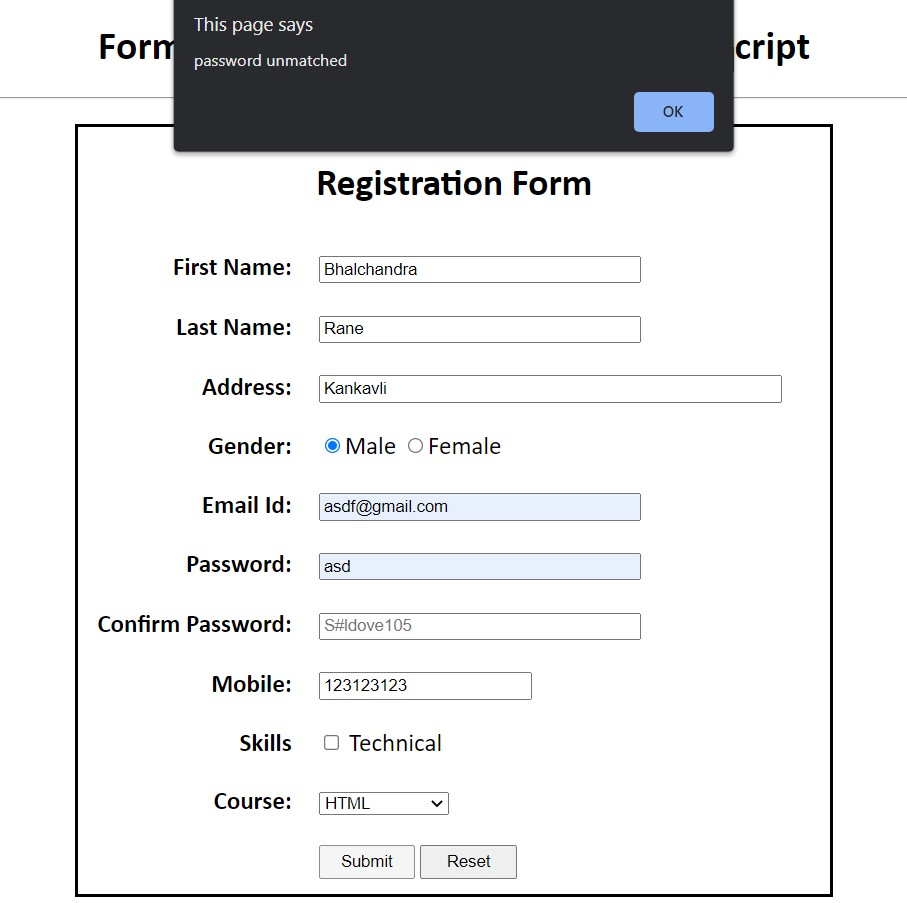
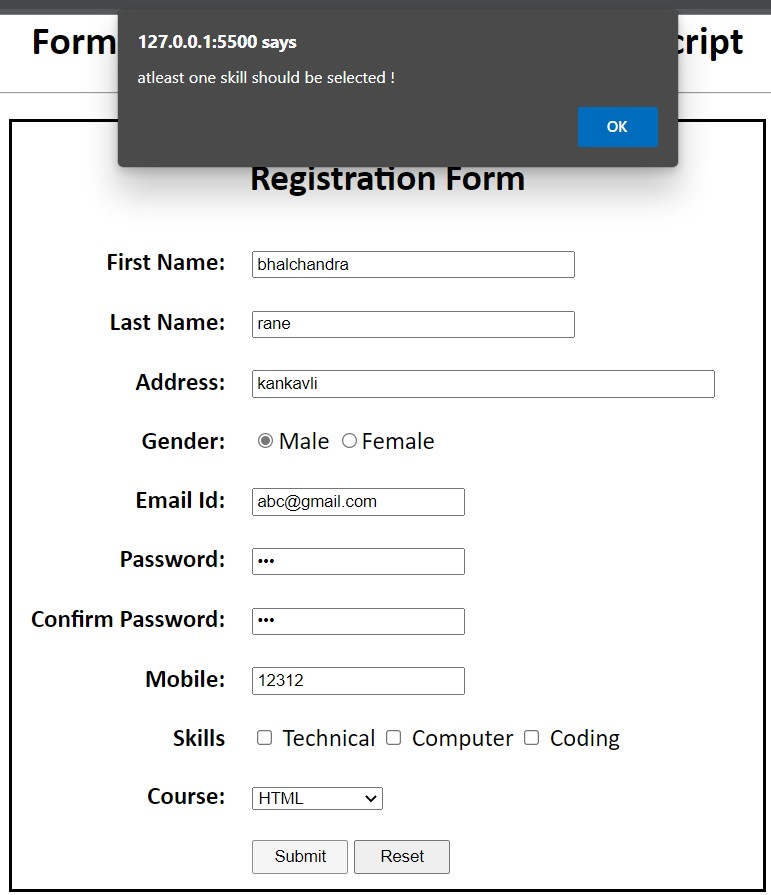
updated the error

diff --git a/Java_Script/Day 8/activity_2_form_alert_valid.html b/Java_Script/Day 8/activity_2_form_alert_valid.html
@@ -46,7 +46,8 @@
             var email = document.reg_form.email;
             var password = document.reg_form.password;
             var Cpassword =document.reg_form.Cpassword;    
-            var mobile = document.reg_form.mobile;   
+            var mobile = document.reg_form.mobile; 
+            var technology = document.reg_form.tech;
             var course = document.reg_form.course;  
        
     
@@ -86,9 +87,15 @@
                 mobile.focus();    
                 return false;    
             } 
-            if (document.getElementById("technical").checked = false) {
-        
-            alert("you didnt checked the box.");
+            var flag = false;
+            for(var i = 0; i < technology.length;i++){
+                if(technology[i].checked){
+                    flag=true;
+                }
+                if(flag == false){
+                    alert("atleast one skill should be selected !");
+                    return false;
+                }
             }
              
             if (course.value == "select course") {    
@@ -137,19 +144,19 @@
             <tr>    
                 <td><label for="email">Email Id: </label></td>    
                 <td>    
-                    <input type="text" name="email" placeholder="example@gmail.com">    
+                    <input type="email" name="email" placeholder="example@gmail.com">    
                 </td>    
             </tr>    
             <tr>    
                 <td><label for="password">Password: </label></td>    
                 <td>    
-                    <input type="text" name="password" placeholder="S#ldove105">    
+                    <input type="password" name="password" placeholder="S#ldove105">    
                 </td>    
             </tr> 
             <tr>    
                 <td><label for="Cpassword">Confirm Password: </label></td>    
                 <td>    
-                    <input type="text" name="Cpassword" placeholder="S#ldove105">    
+                    <input type="password" name="Cpassword" placeholder="S#ldove105">    
                 </td>    
             </tr> 
             <tr>    
@@ -158,15 +165,25 @@
                     <input type="number" name="mobile">    
                 </td>    
             </tr> 
+            <!--Skills-->
             <tr>    
-            <td><label>Skills</label> </label></td>    
+            <td><label>Skills</label></label></td>    
             <td>    
-                <label for="technical">
-                    <input type="checkbox" id="technical" name="technical"/>
-                    Technical</label>
-                   
+                <!---technical-->
+                <label id="skill" name="skills">
+                <input type="checkbox" name="tech"/>
+                Technical
+            <!--computer-->
+                
+                <input type="checkbox" name="tech"/>
+                Computer
+        <!--coding-->
+                    
+                <input type="checkbox" name="tech"/>
+                Coding</label>
             </td>    
         </tr> 
+        <!--Course-->
             <tr>    
             <td><label>Course: </label></td>    
                 <td>    

diff --git a/Java_Script/Day 9/Prompt_activity2.html b/Java_Script/Day 9/Prompt_activity2.html
@@ -23,10 +23,8 @@
                 OTP += digits[Math.floor(Math.random() * 10)];
                 }
             return OTP;
-        }
-             
+        }  
         document.write("OTP of "+n+" digits : "+generateOTP());
-        
         </script>
 </body>
 </html>
